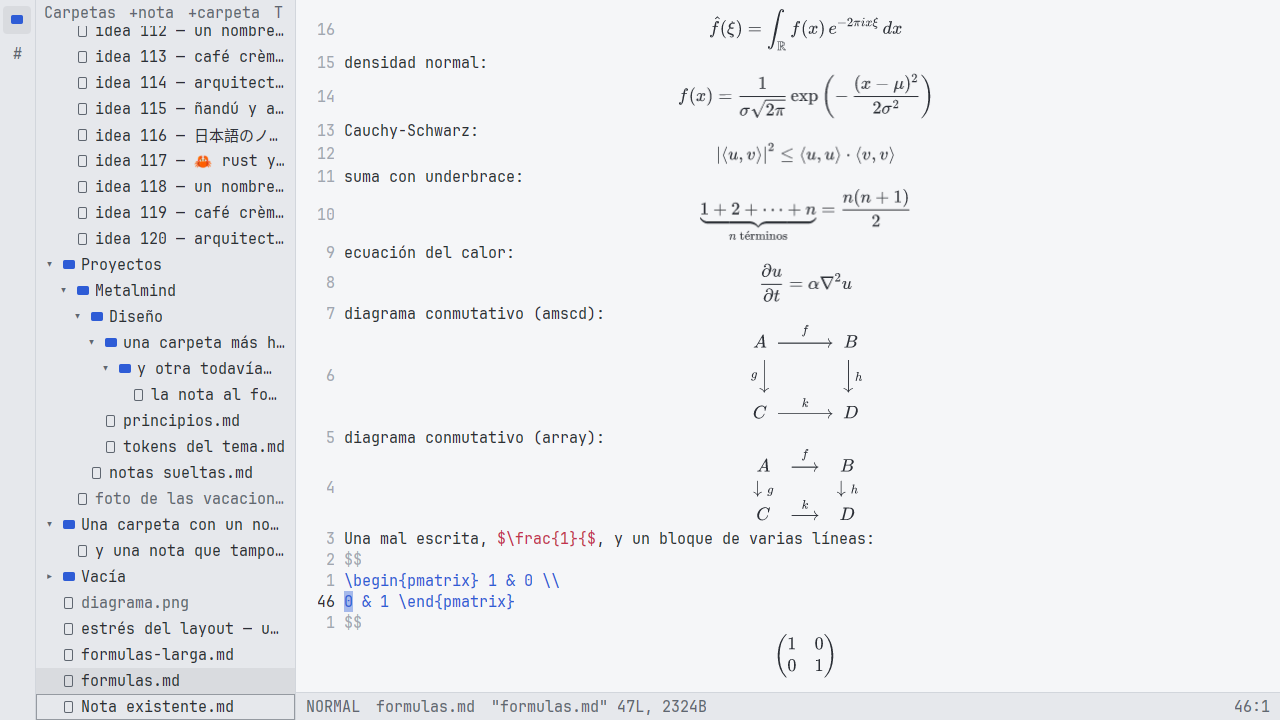
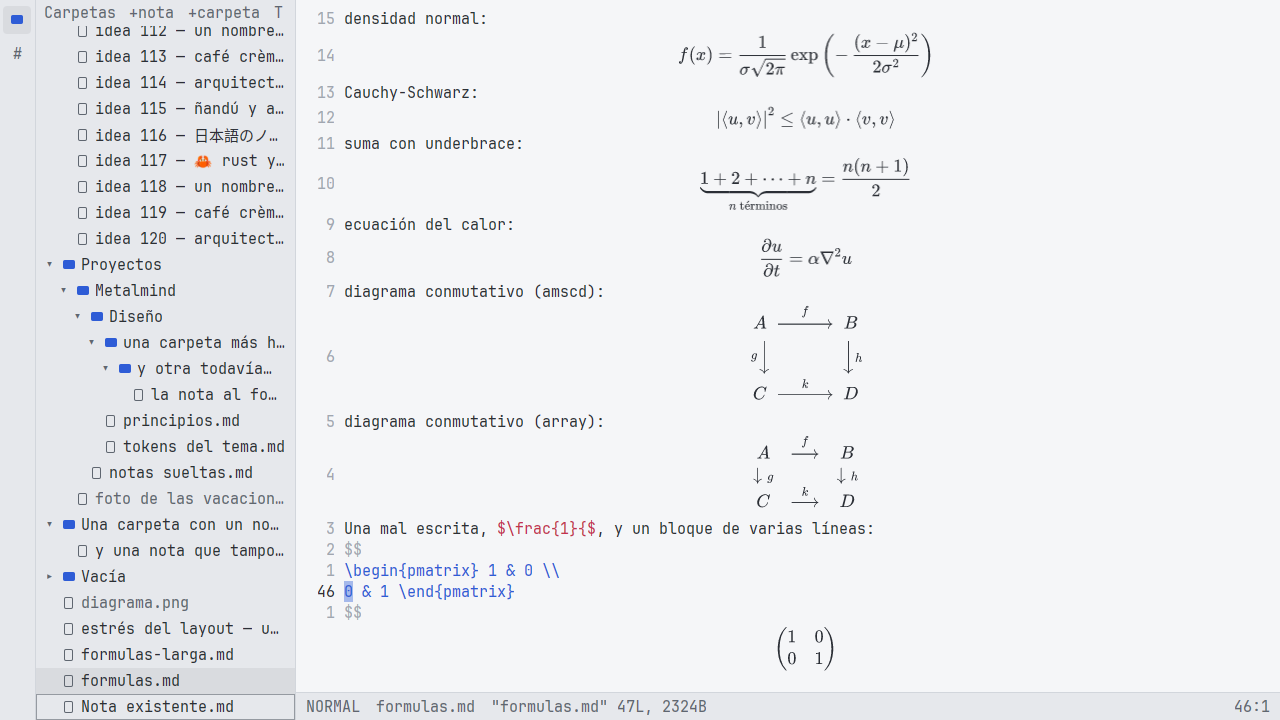
feat(ui): los márgenes de las fórmulas, del tema
layout.math_padding (el margen alrededor de la imagen de una fórmula) y
layout.math_block_margin (el aire arriba y abajo de una de bloque), en
el módulo de tokens y en los dos temas, en vez de un píxel fijo y de un
múltiplo del interlineado. La imagen se agranda con Bounds::dilate; lo
único con números que queda es geometría (la mitad, lo mismo a los dos
lados) y el tope en bytes de la caché, con su razón en tests/tokens.rs.

Capturas rehechas: las 56 de antes siguen en 0 píxeles de diferencia.

diff --git a/crates/metalmind-ui/src/math/engine.rs b/crates/metalmind-ui/src/math/engine.rs
@@ -10,6 +10,8 @@ use ratex_layout::LayoutOptions;
 use ratex_render::RenderOptions;
 use ratex_types::{Color, DisplayList, MathStyle};
 
+use super::geometry::both_sides;
+
 /// Lo que mide una fórmula, en em de la letra con que se compone.
 #[derive(Clone, Copy, Debug, PartialEq)]
 pub struct Metrics {
@@ -35,26 +37,24 @@ pub enum MathError {
 }
 
 /// Cómo se pinta: tamaño de la letra en píxeles lógicos, escala de la
-/// pantalla y color (RGBA de 0 a 1).
+/// pantalla, color (RGBA de 0 a 1) y el margen alrededor, en píxeles
+/// lógicos, donde cae el suavizado de los bordes.
 #[derive(Clone, Copy, Debug, PartialEq)]
 pub struct Look {
     pub size: f32,
     pub scale: f32,
     pub color: [f32; 4],
+    pub padding: f32,
 }
 
 /// Los píxeles de una fórmula, en BGRA sin premultiplicar (lo que guarda el
-/// `RenderImage` de GPUI), con `PADDING` píxeles lógicos alrededor.
+/// `RenderImage` de GPUI), con [`Look::padding`] alrededor.
 #[derive(Clone, Debug)]
 pub struct Picture {
     pub width: u32,
     pub height: u32,
     pub bgra: Vec<u8>,
 }
-
-/// Lo que se deja alrededor de la fórmula al pintarla, en píxeles lógicos:
-/// el suavizado de los bordes cae ahí y no se recorta.
-pub const PADDING: f32 = 1.0;
 
 /// El lado más largo de una imagen, en píxeles de la pantalla: el que
 /// aceptan las texturas de casi cualquier GPU. Una fórmula más grande no se
@@ -80,7 +80,7 @@ pub fn render(latex: &str, display: bool, look: Look) -> Result<Picture, MathErr
     fits(metrics(&list), look)?;
     let options = RenderOptions {
         font_size: look.size,
-        padding: PADDING,
+        padding: look.padding,
         background_color: Color::new(0.0, 0.0, 0.0, 0.0),
         font_dir: String::new(),
         device_pixel_ratio: look.scale,
@@ -98,7 +98,7 @@ fn fits(metrics: Metrics, look: Look) -> Result<(), MathError> {
             look.size, look.scale
         )));
     }
-    let side = |em: f32| (em * look.size + 2.0 * PADDING) * look.scale;
+    let side = |em: f32| (em * look.size + both_sides(look.padding)) * look.scale;
     let (width, height) = (side(metrics.width), side(metrics.height + metrics.depth));
     if width.is_finite() && height.is_finite() && width <= MAX_SIDE && height <= MAX_SIDE {
         Ok(())
@@ -192,6 +192,7 @@ mod tests {
         size: 16.0,
         scale: 1.0,
         color: [1.0, 1.0, 1.0, 1.0],
+        padding: 1.0,
     };
 
     #[test]
@@ -225,7 +226,7 @@ mod tests {
     fn la_imagen_mide_la_formula_a_su_escala() {
         let metrics = measure("x^2", false).unwrap();
         let picture = render("x^2", false, Look { scale: 2.0, ..LOOK }).unwrap();
-        let expected = (metrics.width * LOOK.size + 2.0 * PADDING) * 2.0;
+        let expected = (metrics.width * LOOK.size + 2.0 * LOOK.padding) * 2.0;
         assert!(
             (f32::from(u16::try_from(picture.width).unwrap()) - expected).abs() <= 2.0,
             "{picture:?}"

diff --git a/crates/metalmind-ui/src/math/geometry.rs b/crates/metalmind-ui/src/math/geometry.rs
@@ -21,6 +21,8 @@ pub struct Geometry {
     pub line_height: f32,
     pub ascent: f32,
     pub descent: f32,
+    /// Arriba y abajo de una fórmula de bloque.
+    pub block_margin: f32,
 }
 
 /// Una fórmula ya medida, en píxeles lógicos.
@@ -64,12 +66,14 @@ impl Geometry {
             MathPlace::Inline => {
                 // Con la línea base centrada como la del texto, lo que pide
                 // la parte de arriba y lo que pide la de abajo.
-                let above = 2.0 * (formula.height + leading) - self.ascent + self.descent;
-                let below = 2.0 * (formula.depth + leading) + self.ascent - self.descent;
+                let above = both_sides(formula.height + leading) - self.ascent + self.descent;
+                let below = both_sides(formula.depth + leading) + self.ascent - self.descent;
                 above.max(below).max(self.line_height)
             }
-            MathPlace::Alone => (formula.total() + 4.0 * leading).max(self.line_height),
-            MathPlace::Below { .. } => formula.total() + 4.0 * leading,
+            MathPlace::Alone => {
+                (formula.total() + both_sides(self.block_margin)).max(self.line_height)
+            }
+            MathPlace::Below { .. } => formula.total() + both_sides(self.block_margin),
         };
         to_rows(needed)
     }
@@ -100,6 +104,13 @@ pub fn half(value: f32) -> f32 {
     value / 2.0
 }
 
+/// Lo mismo a los dos lados: arriba y abajo, o a la izquierda y a la
+/// derecha.
+#[must_use]
+pub fn both_sides(value: f32) -> f32 {
+    value * 2.0
+}
+
 #[expect(
     clippy::cast_possible_truncation,
     clippy::cast_sign_loss,
@@ -122,6 +133,7 @@ mod tests {
         line_height: 24.0,
         ascent: 12.0,
         descent: 4.0,
+        block_margin: 8.0,
     };
 
     fn formula(height: f32, depth: f32) -> FormulaBox {

diff --git a/crates/metalmind-ui/src/editor/lines.rs b/crates/metalmind-ui/src/editor/lines.rs
@@ -230,21 +230,19 @@ impl Line<'_> {
     }
 
     /// Dónde va la imagen de una fórmula con su borde izquierdo en `left` y
-    /// el de arriba en `top`, desde el origen de la línea, contando el
-    /// margen con que RaTeX la pinta.
-    fn place_formula(&self, formula: FormulaBox, left: Pixels, top: Pixels) -> PlacedFormula {
-        let padding = px(crate::math::PADDING);
+    /// el de arriba en `top`, desde el origen de la línea, con el margen
+    /// `padding` con que se pinta alrededor.
+    fn place_formula(
+        &self,
+        formula: FormulaBox,
+        left: Pixels,
+        top: Pixels,
+        padding: Pixels,
+    ) -> PlacedFormula {
+        let origin = point(self.origin.x + left, self.origin.y + top);
+        let area = size(px(formula.width), px(formula.total()));
         PlacedFormula {
-            bounds: Bounds::new(
-                point(
-                    self.origin.x + left - padding,
-                    self.origin.y + top - padding,
-                ),
-                size(
-                    px(formula.width) + padding * 2.0,
-                    px(formula.total()) + padding * 2.0,
-                ),
-            ),
+            bounds: Bounds::new(origin, area).dilate(padding),
             image: None,
         }
     }
@@ -312,7 +310,8 @@ impl Builder<'_, '_> {
     fn place(&mut self, spot: &MathSpot, formula: FormulaBox, left: Pixels, top: Pixels) {
         let key = ImageKey::new(&spot.latex, spot.display, self.math.look);
         self.keys.push((self.laid.formulas.len(), key));
-        let placed = self.line.place_formula(formula, left, top);
+        let padding = px(self.math.look.padding);
+        let placed = self.line.place_formula(formula, left, top, padding);
         self.laid.formulas.push(placed);
     }
 

diff --git a/crates/metalmind-ui/src/theme.rs b/crates/metalmind-ui/src/theme.rs
@@ -55,6 +55,10 @@ pub struct Markdown {
     pub strike_thickness: Pixels,
     /// Las fórmulas, veces la letra del editor (`text.math`).
     pub math_size: f32,
+    /// Alrededor de la imagen de una fórmula (`layout.math_padding`).
+    pub math_padding: Pixels,
+    /// Arriba y abajo de una fórmula de bloque (`layout.math_block_margin`).
+    pub math_block_margin: Pixels,
 }
 
 impl Markdown {
@@ -63,6 +67,7 @@ impl Markdown {
         headings: &config::Headings,
         stroke: &config::Stroke,
         text: &config::Text,
+        layout: &config::Layout,
     ) -> Self {
         Self {
             heading: hsla(syntax.heading),
@@ -96,6 +101,8 @@ impl Markdown {
                 .map(|heading| (heading.size, FontWeight(f32::from(heading.weight)))),
             strike_thickness: px(stroke.text_line.0),
             math_size: text.math.0,
+            math_padding: px(layout.math_padding.0),
+            math_block_margin: px(layout.math_block_margin.0),
         }
     }
 }
@@ -340,7 +347,7 @@ impl Theme {
             tooltip_padding_x: px(layout.tooltip_padding_x.0),
             tooltip_padding_y: px(layout.tooltip_padding_y.0),
             gutter_mark_columns: usize::from(layout.gutter_mark_columns.0),
-            markdown: Markdown::new(syntax, headings, stroke, text),
+            markdown: Markdown::new(syntax, headings, stroke, text, layout),
         }
     }
 

diff --git a/crates/metalmind-ui/src/math/images.rs b/crates/metalmind-ui/src/math/images.rs
@@ -24,6 +24,7 @@ pub struct ImageKey {
     size: u32,
     scale: u32,
     color: [u32; 4],
+    padding: u32,
 }
 
 impl ImageKey {
@@ -34,6 +35,7 @@ impl ImageKey {
             size: look.size.to_bits(),
             scale: look.scale.to_bits(),
             color: look.color.map(f32::to_bits),
+            padding: look.padding.to_bits(),
         }
     }
 
@@ -42,6 +44,7 @@ impl ImageKey {
             size: f32::from_bits(self.size),
             scale: f32::from_bits(self.scale),
             color: self.color.map(f32::from_bits),
+            padding: f32::from_bits(self.padding),
         }
     }
 }
@@ -191,6 +194,7 @@ mod tests {
             size: 16.0,
             scale: 1.0,
             color: [1.0; 4],
+            padding: 1.0,
         };
         ImageKey::new(latex, false, look)
     }

diff --git a/crates/metalmind-ui/src/editor/element.rs b/crates/metalmind-ui/src/editor/element.rs
@@ -336,17 +336,19 @@ fn geometry_of(
         line_height: f32::from(line_height),
         ascent: f32::from(text_system.ascent(font_id, typeface.size)).abs(),
         descent: f32::from(text_system.descent(font_id, typeface.size)).abs(),
+        block_margin: f32::from(theme.markdown.math_block_margin),
     }
 }
 
 /// Una fórmula se pinta con la letra de las fórmulas, la escala de la
-/// pantalla y el color del texto del tema.
+/// pantalla, el color del texto y el margen del tema.
 fn look_of(geometry: Geometry, theme: &Theme, window: &Window) -> Look {
     let color = theme.foreground.to_rgb();
     Look {
         size: geometry.size,
         scale: window.scale_factor(),
         color: [color.r, color.g, color.b, color.a],
+        padding: f32::from(theme.markdown.math_padding),
     }
 }
 

diff --git a/crates/metalmind-ui/tests/tokens.rs b/crates/metalmind-ui/tests/tokens.rs
@@ -77,9 +77,9 @@ const EXCEPTIONS: &[(&str, &str, &str)] = &[
         "geometría, no estilo: la mitad con que GPUI centra el texto en su línea y las fórmulas se centran",
     ),
     (
-        "src/editor/lines.rs",
-        "padding * 2.0",
-        "geometría, no estilo: el margen con que RaTeX pinta la imagen va a los dos lados",
+        "src/math/geometry.rs",
+        "value * 2.0",
+        "geometría, no estilo: el mismo margen a los dos lados",
     ),
     (
         "src/math/images.rs",

diff --git a/crates/metalmind-config/src/theme/metrics.rs b/crates/metalmind-config/src/theme/metrics.rs
@@ -237,6 +237,11 @@ metric_group! {
         /// Las columnas de las marks en el margen: la letra, el `+` de las
         /// demás y un espacio antes de los números.
         gutter_mark_columns: MarkColumns,
+        /// Alrededor de la imagen de una fórmula, donde cae el suavizado de
+        /// sus bordes.
+        math_padding: Length,
+        /// Arriba y abajo de una fórmula de bloque.
+        math_block_margin: Length,
     }
 }
 

diff --git a/crates/metalmind-ui/src/math/mod.rs b/crates/metalmind-ui/src/math/mod.rs
@@ -12,7 +12,7 @@ use std::sync::Arc;
 
 use gpui_kit::{AppContext as _, Context, RenderImage, Window};
 
-pub use self::engine::{Look, MathError, Metrics, PADDING, Picture, measure, render};
+pub use self::engine::{Look, MathError, Metrics, Picture, measure, render};
 pub use self::geometry::{FormulaBox, Geometry, half};
 pub use self::images::{Image, ImageKey};
 use self::images::{Images, paint};

diff --git a/crates/metalmind-config/tests/themes.rs b/crates/metalmind-config/tests/themes.rs
@@ -226,7 +226,7 @@ fn sin_extends_le_faltan_colores() {
         assert!(error.message.contains(key), "{key}: {}", error.message);
     }
     assert!(
-        error.message.ends_with("layout.gutter_mark_columns"),
+        error.message.ends_with("layout.math_block_margin"),
         "{}",
         error.message
     );

diff --git a/crates/metalmind-ui/benches/formulas.rs b/crates/metalmind-ui/benches/formulas.rs
@@ -68,6 +68,7 @@ fn pintar_las_22(bencher: Bencher, scale: f32) {
         size: 16.0 * 1.21,
         scale,
         color: [0.85, 0.85, 0.88, 1.0],
+        padding: 1.0,
     };
     bencher.bench_local(|| {
         for formula in FORMULAS {

diff --git a/docs/config.md b/docs/config.md
@@ -154,6 +154,6 @@ Las medidas, también heredables una por una:
 - `stroke`: los anchos de línea en píxeles: `border` (bordes y separadores), `caret` (el cursor de barra) y `text_line` (subrayado y tachado).
 - `text`: el tamaño de letra, en veces `font.size` (de 0.5 a 4), y el interlineado, en veces el tamaño (de 1 a 3), de `editor` (las notas), `ui_md` (la interfaz) y `ui_sm` (lo secundario: atajos, detalles y contadores), como `{ size: 1.0, line_height: 1.4 }`; `math`, el tamaño de las fórmulas en veces el de `editor` (1.21, como KaTeX, para que se vean del tamaño del texto que las rodea); y los pesos `normal` y `strong` (la negrita del markdown y las letras que coinciden en el picker).
 - `rows`: el alto de una fila del árbol (`tree`, que es también el del encabezado del panel y sus campos) y del menú (`menu`), en veces la fuente de la interfaz, redondeado; y el aire arriba y abajo de la línea de texto de una fila del picker (`picker_padding`).
-- `layout`: las medidas de cada parte, en píxeles o un paso de `spacing`: la barra de estado (`status_padding_x`, `status_padding_y`, `status_gap`), el picker (`picker_width`, `picker_top`, `picker_rows`, que son filas, `picker_padding_x`, `picker_input_padding_y`, `picker_gap` y `picker_detail_share`, la fracción de la fila que se queda el detalle cuando el texto no cabe), el panel lateral (`panel_padding_x`, `panel_padding_y`, `panel_gap`, `panel_indent`, `panel_button_padding_x` e `icon_size`, en veces la fuente), su barra de botones (`rail_width`, `rail_button_size`) y el menú contextual (`menu_width`, `menu_padding`, `menu_item_padding_x`), los tooltips (`tooltip_padding_x`, `tooltip_padding_y`) y la columna de las marks en el margen (`gutter_mark_columns`, en columnas de texto, de 3 a 8: la letra, el `+` de las demás y al menos un espacio).
+- `layout`: las medidas de cada parte, en píxeles o un paso de `spacing`: la barra de estado (`status_padding_x`, `status_padding_y`, `status_gap`), el picker (`picker_width`, `picker_top`, `picker_rows`, que son filas, `picker_padding_x`, `picker_input_padding_y`, `picker_gap` y `picker_detail_share`, la fracción de la fila que se queda el detalle cuando el texto no cabe), el panel lateral (`panel_padding_x`, `panel_padding_y`, `panel_gap`, `panel_indent`, `panel_button_padding_x` e `icon_size`, en veces la fuente), su barra de botones (`rail_width`, `rail_button_size`), el menú contextual (`menu_width`, `menu_padding`, `menu_item_padding_x`), los tooltips (`tooltip_padding_x`, `tooltip_padding_y`), la columna de las marks en el margen (`gutter_mark_columns`, en columnas de texto, de 3 a 8: la letra, el `+` de las demás y al menos un espacio) y las fórmulas (`math_padding`, el margen alrededor de la imagen de una fórmula, y `math_block_margin`, el aire arriba y abajo de una de bloque).
 
 El tamaño base de la letra (`font.size`), el margen del texto (`editor.padding`), el borde entre paneles (`panes.border_width`) y el ancho del panel (`panel.width`) siguen en `config.yaml`: son de quien usa la app, no del estilo.
